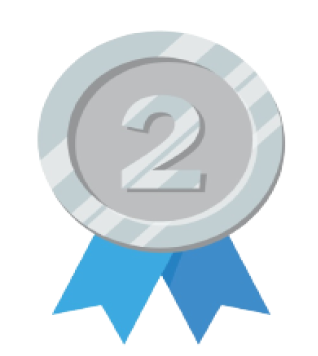
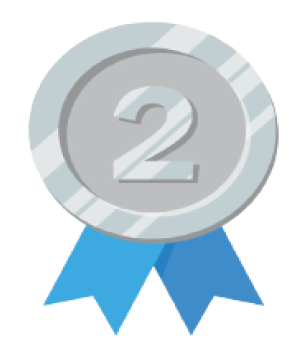
Add prizes section

diff --git a/index.html b/index.html
@@ -701,14 +701,15 @@ Bonus Points: Use attention mining to reward users and participants.
     <img loading="lazy" class="element-1" src="./assets/turtle.png" data-paroller-factor="-0.05"
       data-paroller-factor-xs="0.0" data-paroller-type="foreground" data-paroller-direction="vertical"
       style="transform: translate(0px, 0px); transition: transform 0.1s ease 0s; will-change: transform;">
-    <!-- <div class="speakers-top">
-      <div class="speakers-top-left"> -->
+     <div class="speakers-top">
+      <div class="speakers-top-left">
         <h2 id="prizes" class="orange">Prizes</h2>
 
-         <!--<div class="prizes_sec">
+         <div class="prizes_sec">
 
           
-          <div class="card ">
+          <div class="card card-desktop">
+            <img src="./assets/second.png"/>
             <h1>
               Second Prize
             </h1>
@@ -730,7 +731,8 @@ Bonus Points: Use attention mining to reward users and participants.
             </div>
             </span>
           </div>
-          <div class="card ">
+          <div class="card card-desktop">
+            <img src="./assets/first.png"/>
             <h1>
               First Prize
             </h1>
@@ -753,7 +755,55 @@ Bonus Points: Use attention mining to reward users and participants.
             </div>
             </span>
           </div>
+          <div class="card card-mobile">
+            <img src="./assets/first.png"/>
+            <h1>
+              First Prize
+            </h1>
+            <h2>
+              ₹15,000
+            </h2>
+            <span>
+              <div class="kyu">
+              <ol>
+                
+                <li class="prizes-li">Wolfram Pro for 1 year and Wolfram One</li>
+                <li class="prizes-li">Lifetime taskade upgrade for winners</li>
+                <li class="prizes-li">Grabon coupons</li>
+                <li class="prizes-li">Axure certificates</li>
+                <li class="prizes-li">5 O'Reilly ebooks of choice</li>
+                <li class="prizes-li">100% off on interview buddy</li>
+                <li class="prizes-li">Free nord vpn access</li>
+                <li class="prizes-li">Goodies and Swag from Github and devfolio</li>
+              </ol>
+            </div>
+            </span>
+          </div>
+          <div class="card card-mobile">
+            <img src="./assets/second.png"/>
+            <h1>
+              Second Prize
+            </h1>
+            <h2>
+              ₹10,000
+            </h2>
+            <span>
+              <div class="kyu">
+              <ol>
+                <li class="prizes-li">Wolfram Pro for 1 year and Wolfram One</li>
+                <li class="prizes-li">Lifetime taskade upgrade for winners</li>
+                
+                <li class="prizes-li">Axure certificates</li>
+                <li class="prizes-li">5 O'Reilly ebooks of choice</li>
+                <li class="prizes-li">100% off on interview buddy</li>
+                <li class="prizes-li">Free nord vpn access</li>
+                <li class="prizes-li">Goodies and Swag from Github and devfolio</li>
+              </ol>
+            </div>
+            </span>
+          </div>
           <div class="card">
+            <img src="./assets/third.png"/>
             <h1>
               Third Prize
             </h1>
@@ -787,7 +837,6 @@ Bonus Points: Use attention mining to reward users and participants.
             <span>
               <div class="kyu">
               <ol>
-           
                 <li class="prizes-li">Wolfram Pro for 1 year and Wolfram One</li>
                 <li class="prizes-li">Lifetime taskade upgrade for winners</li>
                 <li class="prizes-li">Grabon coupons</li>
@@ -825,7 +874,7 @@ Bonus Points: Use attention mining to reward users and participants.
 
         </div>
 
-    </div>  -->
+    </div> 
     </div>
     <!-- carousel open -->
     <!-- <div>

diff --git a/assets/style.css b/assets/style.css
@@ -2213,7 +2213,7 @@ input#sustain-pre:checked +label.sustain>div.modal-back{
 .speakers-top-left .prizes_sec .card {
 	width: 320px;
 	min-height: 500px;
-	backdrop-filter: ;
+	backdrop-filter: blur(10px);
 	background-color: rgba(33, 92, 108, 0.7);
 	border-radius: 15px;
 	/* border: 2px solid rgba(3, 238, 255, 0.9); */
@@ -2228,14 +2228,13 @@ input#sustain-pre:checked +label.sustain>div.modal-back{
 	transition: transform 0.5s ease-out;
 }
 
-.prizes-ol {
-	/* border: white 1px solid; */
-	/* display: flex;
-	justify-content: center;
-	flex-wrap: wrap; */
-	padding-inline-start: 0;
-	width: 100%;
+.speakers-top-left .prizes_sec:nth-child(2) {
+	margin-top: calc(25vh + 100px)
 }
+.speakers-top-left .prizes_sec:nth-child(2) .card  {
+	padding-top: 150px;
+}
+
 .center {
 	align-items: center;
 }
@@ -2243,8 +2242,18 @@ input#sustain-pre:checked +label.sustain>div.modal-back{
 	justify-content: center;
 	margin-right: 10px;
 }
+
 .prizes-li {
 	padding-top: 0.67rem;
+	list-style-type: disc;
+}
+
+.prizes_sec .card img {
+	position: absolute;
+	top: 0%;
+	height: 300px;
+	left: 50%;
+	transform: translate(-50%, -50%);
 }
 
 .speakers-top-left .prizes_sec .card:hover {
@@ -2272,6 +2281,13 @@ input#sustain-pre:checked +label.sustain>div.modal-back{
 	font-size: 20px;
 }
 
+.card-desktop {
+	display: block;
+}
+.card-mobile {
+	display: none;
+}
+
 @media only screen and (max-width: 1200px) {
 	.speakers-top-left .prizes_sec {
 		margin-left: -8vw;
@@ -2288,6 +2304,12 @@ input#sustain-pre:checked +label.sustain>div.modal-back{
 	.speakers-top-left .prizes_sec .card span {
 		font-size: 20px;
 	}
+	.prizes_sec .card img {
+		height: 200px;
+	}
+	.speakers-top-left .prizes_sec:nth-child(2) .card  {
+		padding-top: 100px;
+	}
 }
 
 @media only screen and (max-width: 768px) {
@@ -2301,8 +2323,26 @@ input#sustain-pre:checked +label.sustain>div.modal-back{
 		/* justify-content: center; */
 		align-items: center;
 	}
+	.card-desktop {
+		display: none;
+	}
+	.card-mobile {
+		display: block;
+	}
 	.speakers-top-left .prizes_sec .card {
 		margin-top: 10px;
+	}
+	.prizes_sec .card img {
+		height: 200px;
+	}
+}
+
+@media only screen and (max-width: 576px) {
+	.speakers-top-left .prizes_sec:nth-child(2) {
+		margin-top: 0;
+	}
+	.speakers-top-left .prizes_sec:nth-child(2) .card  {
+		margin-top: 100px;
 	}
 }
 
